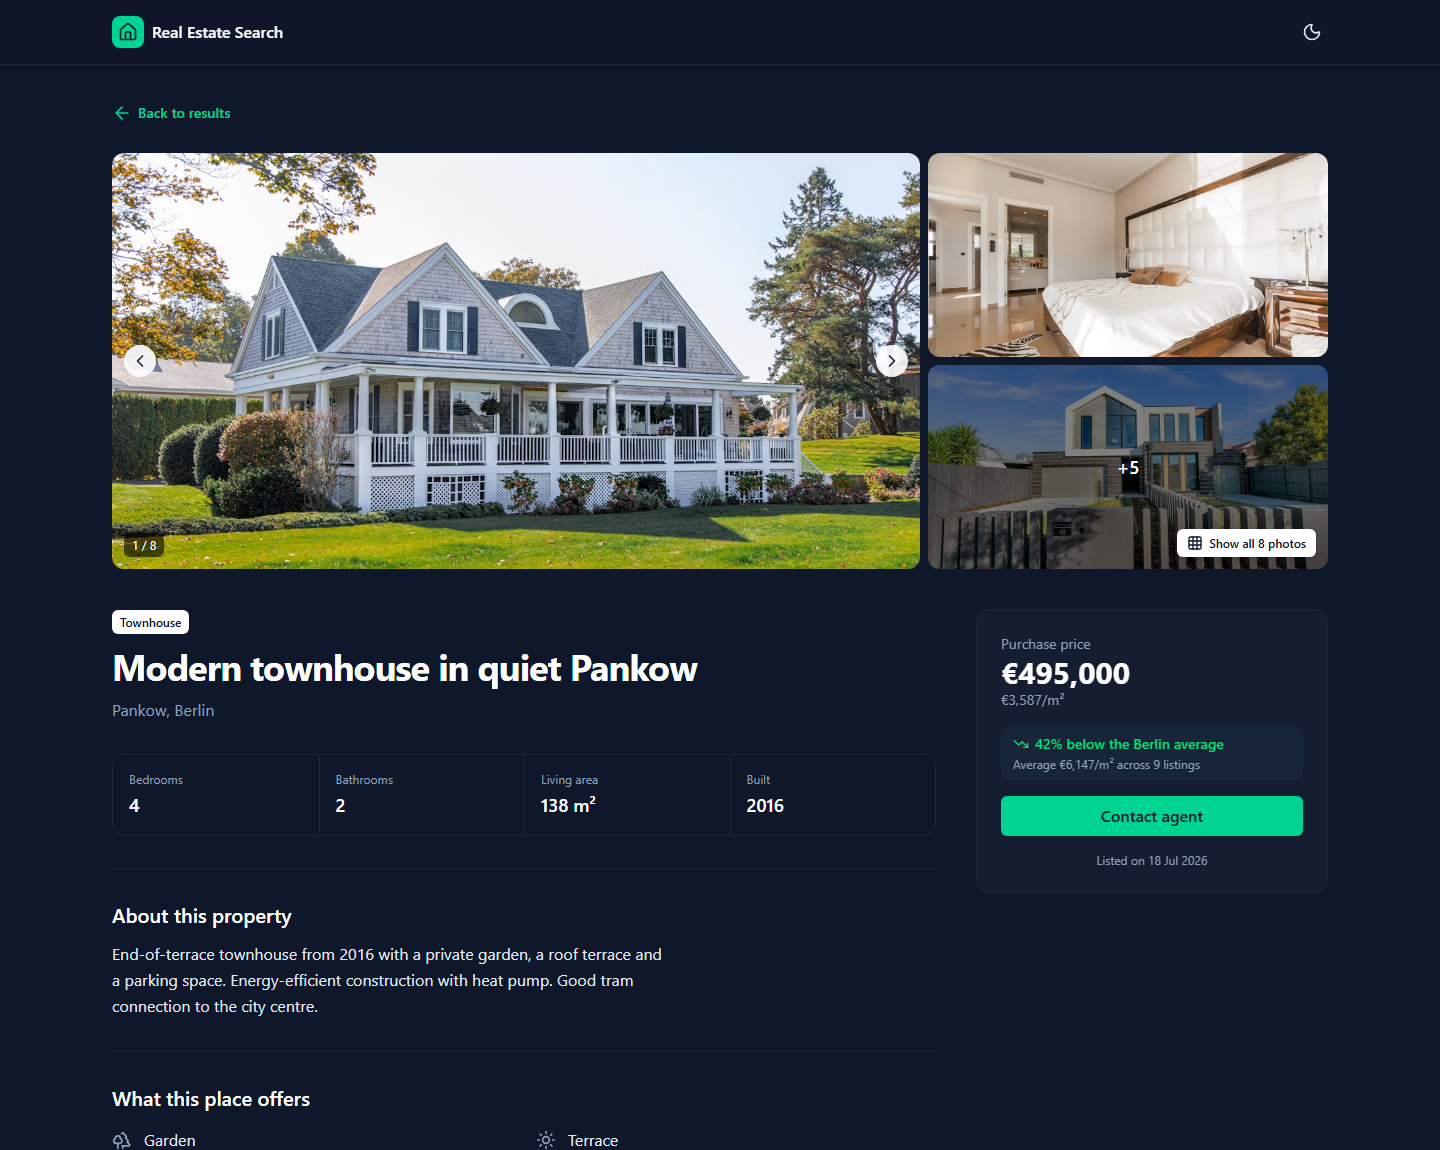
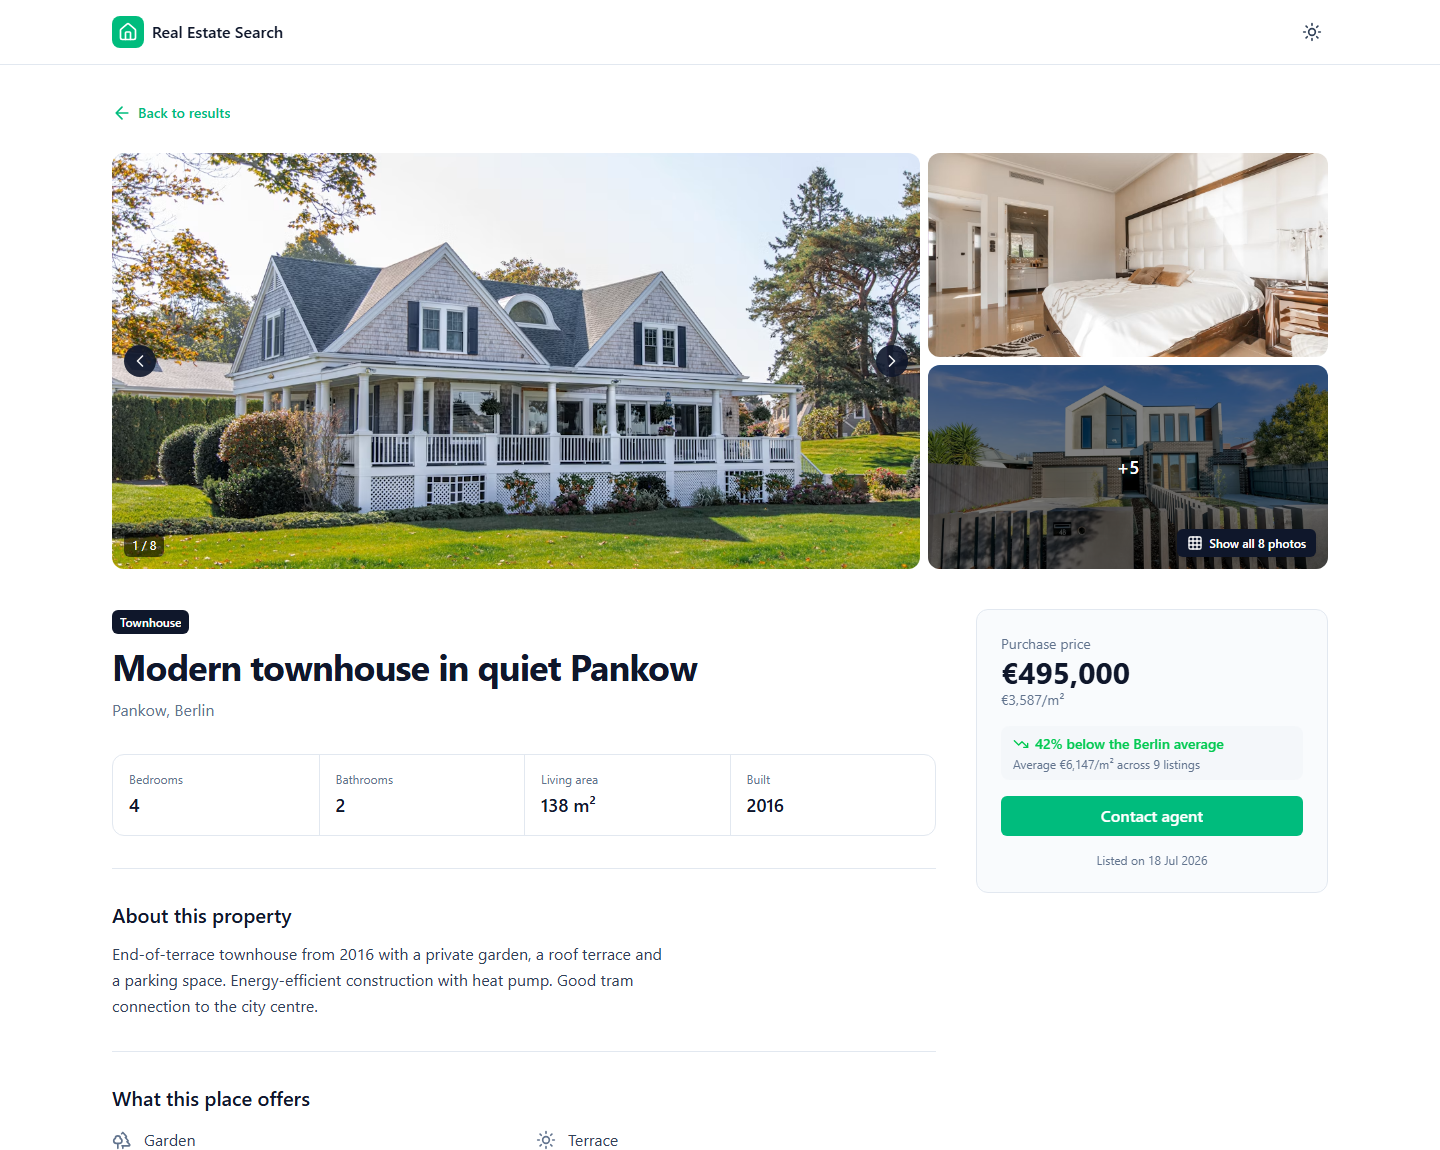
docs: refresh screenshots in the light theme

diff --git a/docs/decisions.md b/docs/decisions.md
@@ -153,7 +153,7 @@ placeholder if one fails to load.
 - **Components.** Pages only compose. Data fetching lives in composables, URL and formatting logic in
   pure, unit-tested utilities, and presentation in small components that receive props and emit
   events, so the same filter form is reused in the desktop sidebar and the mobile slide-over.
-- **Extras:** light/dark mode, SEO meta per property, and accessibility details (`role="search"`,
+- **Extras:** light theme by default with a dark mode toggle (the choice is remembered), SEO meta per property, and accessibility details (`role="search"`,
   `aria-busy`, `aria-live`, labelled radio groups).
 
 ## 5. Testing
